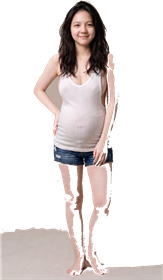
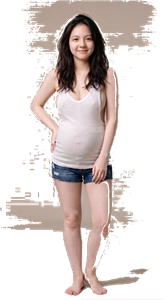
P11: poles posisi karakter di lantai rumah/kos, rapikan cutout Neil Aura, siapkan lazy loader Tahap B/C & lazy cache sw.js

diff --git a/js/adegan.js b/js/adegan.js
@@ -5,7 +5,25 @@
   var cv, cx, W = 360, H = 640, dpr = 1;
   var anim = { rolling: 0, pantulKedai: 0, pantulBarista: 0, kedip: 0, motor: [], tMotor: 0, angkat: 0, teks: [], cup: [] };
   var ruko = [];
-  var bgImgs = {}, charImgs = {}, charFullImgs = {};
+  var bgImgs = {}, charImgs = {}, charFullImgs = {}, kotaImgs = {}, temaImgs = {}, motorImgs = {}, mobilImgs = {};
+  function muatLazily(map, kunci, src) {
+    if (!kunci) return null;
+    if (map[kunci] === 'none') return null;
+    if (map[kunci]) return map[kunci].naturalWidth ? map[kunci] : null;
+    var im = new Image();
+    im.onerror = function () { map[kunci] = 'none'; };
+    im.src = src;
+    map[kunci] = im;
+    return null;
+  }
+  function gambarLatarGulir(im, yBawah, geser) {
+    if (!im || !im.naturalWidth) return false;
+    var dh = Math.max(yBawah, 240), dw = Math.max(W, dh * (im.naturalWidth / im.naturalHeight));
+    var off = ((geser || 0) % dw + dw) % dw;
+    cx.drawImage(im, -off, 0, dw, dh);
+    if (dw - off < W) cx.drawImage(im, dw - off, 0, dw, dh);
+    return true;
+  }
   function muatBg(kunci, src) {
     var im = new Image();
     im.onload = function () { bgImgs[kunci] = im; };
@@ -914,25 +932,26 @@
     } else {
       var ekspPemain = s.sakitPemain ? '🤒' : s.capekPemain ? '😓' : s.hbTinggi ? '❤' : ['😊', '☕', '✨'][Math.floor(t / 4000) % 3];
       var imP = imCharFull(s.namaPemain, s.gender || 'cewek');
-      if (!gambarKarakterPenuh(imP, 95, yLantai + 138, 132, t, { gerak: 5, bingkai: '#1f8a80', ikonEkspresi: ekspPemain, label: s.namaPemain || 'Kamu' })) {
+      if (!gambarKarakterPenuh(imP, 228, yLantai + 162, 160, t, { gerak: 4, bingkai: '#1f8a80', ikonEkspresi: ekspPemain, label: s.namaPemain || 'Kamu' })) {
         gambarKarakterRumah(132, yLantai + 102, s.gender || 'cewek', t, { baju: s.gender === 'cewek' ? '#7a3e54' : '#1f8a80', hamil: !!s.hamilPemain, label: s.namaPemain || 'Kamu' });
       }
       if (pas) {
         var ekspPas = pas.hamil ? '🤰' : s.hbTinggi ? '😘' : ['🥰', '😊', '💕'][Math.floor(t / 4500) % 3];
         var imPas = imCharFull(pas.nama, pas.gender, pas.usia, pas.peran);
-        if (!gambarKarakterPenuh(imPas, 185, yLantai + 140, 128, t + 400, { gerak: 4, bingkai: '#e91e63', ikonEkspresi: ekspPas, label: pas.nama + (pas.hamil ? ' 🤰' : '') })) {
+        if (!gambarKarakterPenuh(imPas, 148, yLantai + 168, 154, t + 400, { gerak: 3, bingkai: '#e91e63', ikonEkspresi: ekspPas, label: pas.nama + (pas.hamil ? ' 🤰' : '') })) {
           gambarKarakterRumah(196, yLantai + 104, pas.gender, t + 400, { baju: pas.gender === 'cewek' ? '#d46a7e' : '#35608a', hamil: !!pas.hamil, label: pas.nama });
         }
       }
     }
-    /* anak-anak & ipar yang berada di rumah tampil penuh sesuai usia */
+    /* anak-anak & ipar yang berada di rumah tampil penuh sesuai usia di lantai depan */
+    var posAn = [[76, 174], [292, 174], [112, 196], [264, 196]];
     anakList.slice(0, 4).forEach(function (an, i) {
       var isIpar = an.peran === 'adik_ipar' || an.peran === 'kakak_ipar';
-      var tinggiAn = isIpar ? (an.usia < 20 ? 116 : 126) : (an.usia < 3 ? 68 : an.usia < 7 ? 84 : an.usia < 12 ? 98 : an.usia < 18 ? 116 : 126);
-      var ax = 262 + (i % 2) * 52 - Math.floor(i / 2) * 160, ay = yLantai + 142 + Math.floor(i / 2) * 34;
+      var tinggiAn = isIpar ? (an.usia < 20 ? 136 : 148) : (an.usia < 3 ? 78 : an.usia < 7 ? 96 : an.usia < 12 ? 114 : an.usia < 18 ? 136 : 148);
+      var ax = posAn[i][0], ay = yLantai + posAn[i][1];
       var imAn = imCharFull(an.nama, an.gender, an.usia, an.peran);
       var ekspAn = isIpar ? ['😉', '✨', '🌸'][Math.floor((t + i * 900) / 4200) % 3] : ['😄', '🌟', '🎵'][Math.floor((t + i * 700) / 3800) % 3];
-      if (!gambarKarakterPenuh(imAn, ax, ay, tinggiAn, t + 700 * (i + 1), { gerak: 4, bingkai: isIpar ? '#ff70a6' : '#f2a516', ikonEkspresi: ekspAn, label: an.nama + ' (' + an.usia + 't)' })) {
+      if (!gambarKarakterPenuh(imAn, ax, ay, tinggiAn, t + 700 * (i + 1), { gerak: 3, bingkai: isIpar ? '#ff70a6' : '#f2a516', ikonEkspresi: ekspAn, label: an.nama + ' (' + an.usia + 't)' })) {
         var sk = an.usia < 2 ? 0.52 : an.usia < 5 ? 0.64 : an.usia < 10 ? 0.76 : an.usia < 15 ? 0.88 : 0.96;
         gambarKarakterRumah(ax, ay, an.gender, t + 700 * (i + 1), { skala: sk, baju: an.gender === 'cewek' ? '#f2a516' : '#4fa55a', label: an.nama + ' (' + an.usia + 't)' });
       }
@@ -1181,6 +1200,15 @@
   /* motor menghadap kanan; dasar = permukaan jalan */
   function gambarMotorKu(x, y, id, o, t) {
     o = o || {};
+    var imM = muatLazily(motorImgs, id, 'img/motor-' + id + '.png');
+    if (imM) {
+      var th = 56, tw = th * (imM.naturalWidth / imM.naturalHeight);
+      cx.save(); cx.translate(x, y); if (o.kiri) cx.scale(-1, 1);
+      cx.fillStyle = 'rgba(0,0,0,.28)'; cx.beginPath(); cx.ellipse(0, 1, Math.max(26, tw * 0.42), 4.5, 0, 0, Math.PI * 2); cx.fill();
+      cx.drawImage(imM, -tw / 2, -th + 2, tw, th);
+      cx.restore();
+      return;
+    }
     var sport = !!SPORT[id], retro = !!RETRO[id], maxi = !!MAXI[id], ayago = !!AYAGO[id];
     var w = SPORT[id] || WARNA_MOTOR[id] || '#d9443a', putar = o.jalan ? t / 60 : 0;
     cx.save(); cx.translate(x, y); if (o.kiri) cx.scale(-1, 1);
@@ -1253,6 +1281,15 @@
   }
   var WARNA_MOBIL = { granmax: '#e8e4da', carry: '#e8e4da', hilux: '#d6d8da', l300: '#3e6fb0', calya: '#b8bcc0', agya: '#d9443a', avanza: '#e8e4da', rush: '#2b2f36', veloz: '#8a2a2a', zenix: '#d8d4cc', fortuner: '#2b2f36', camry: '#3a3f46', gr86: '#d9443a', alphard: '#f3f1ea', landcruiser: '#2b2f36' };
   function gambarMobil(x, y, bentuk, id, kiri, roda) {
+    var imC = muatLazily(mobilImgs, id, 'img/mobil-' + id + '.png');
+    if (imC) {
+      var th = 54, tw = th * (imC.naturalWidth / imC.naturalHeight);
+      cx.save(); cx.translate(x, y); if (kiri) cx.scale(-1, 1);
+      cx.fillStyle = 'rgba(0,0,0,.3)'; cx.beginPath(); cx.ellipse(0, 2, Math.max(46, tw * 0.44), 5.5, 0, 0, Math.PI * 2); cx.fill();
+      cx.drawImage(imC, -tw / 2, -th + 4, tw, th);
+      cx.restore();
+      return;
+    }
     var w = WARNA_MOBIL[id] || '#e8e4da', pt = roda ? roda / 60 : 0;
     cx.save(); cx.translate(x, y); if (kiri) cx.scale(-1, 1);
     if (id === 'hilux') {
@@ -1290,11 +1327,12 @@
   function gambarJalanRaya(s, t) {
     var m = s.menit % 1440, f = s.ojek, jalan = H * 0.62, dasarRuko = jalan - 60, lebar = W + 44, geser = (t * 0.06) % lebar;
     var gp = gelap(m);
-    {
+    var imKota = muatLazily(kotaImgs, s.kota, 'img/kota-' + s.kota + '.jpg');
+    if (!gambarLatarGulir(imKota, dasarRuko + 12, t * 0.06)) {
       gambarLangit(m, t);
       cx.save(); cx.translate(-geser, 0); gambarRuko(m, dasarRuko); cx.translate(lebar, 0); gambarRuko(m, dasarRuko); cx.restore();
-      if (gp > 0) { cx.fillStyle = 'rgba(10,18,45,' + (gp * 0.38).toFixed(3) + ')'; cx.fillRect(0, 0, W, dasarRuko); }
     }
+    if (gp > 0) { cx.fillStyle = 'rgba(10,18,45,' + (gp * 0.38).toFixed(3) + ')'; cx.fillRect(0, 0, W, dasarRuko); }
     kotak(0, dasarRuko, W, jalan - dasarRuko, 'rgba(185,178,166,.55)');
     var g2 = (t * 0.25) % 20; for (var x0 = -20; x0 < W + 20; x0 += 20) kotak(x0 - g2, jalan - 7, 10, 7, (Math.round((x0 + 20) / 20)) % 2 ? '#f3f1ea' : '#2b2b2b');
     kotak(0, jalan, W, H - jalan, s.hujan ? 'rgba(38,44,54,.72)' : 'rgba(68,72,78,.72)');
@@ -1365,6 +1403,8 @@
   }
   /* pemandangan umum per tema, bergeser mengikuti jarak tempuh */
   function latarTema(tema, dasar, geser, gp, m) {
+    var imTema = muatLazily(temaImgs, tema, 'img/tema-' + tema + '.jpg');
+    if (gambarLatarGulir(imTema, dasar + 8, geser * 0.35)) return;
     var lampu = gp > 0.4, off = geser;
     if (tema === 'gunung') { bukitLatar(dasar - 12, 110, '#6d8f8a', off * 0.2, 90, 1); bukitLatar(dasar - 4, 70, '#4f8a55', off * 0.45, 60, 3); for (var r = 0; r < 4; r++) { cx.fillStyle = 'rgba(90,160,80,' + (0.5 - r * 0.08) + ')'; cx.fillRect(0, dasar - 8 - r * 7, W, 3); } }
     else if (tema === 'danau') { bukitLatar(dasar - 18, 90, '#5d7f8a', off * 0.15, 110, 5); cx.fillStyle = 'rgba(90,170,205,.85)'; cx.fillRect(0, dasar - 18, W, 18); bukitLatar(dasar, 36, '#3f7a4a', off * 0.4, 70, 2); }
@@ -1556,17 +1596,20 @@
       }
       kotakKedai = { x: kX, y: kY - 12, w: kW, h: kH + 12, bx: kX + 20, by: kY + 28, bw: kW - 40, bh: 54 };
     } else {
-      gambarLangit(m, t);
-      gambarRuko(m, dasarRuko);
+      var imKotaS = muatLazily(kotaImgs, s.kota, 'img/kota-' + s.kota + '.jpg');
+      if (!gambarLatarGulir(imKotaS, dasarRuko + 12, 0)) {
+        gambarLangit(m, t);
+        gambarRuko(m, dasarRuko);
+      }
       if (gp > 0) { cx.fillStyle = 'rgba(10,18,45,' + (gp * 0.38).toFixed(3) + ')'; cx.fillRect(0, 0, W, dasarRuko); }
       gambarJalan(trotoar, jalan);
-      gambarTiang(dasarKedai, dasarRuko - 270);
+      if (!imKotaS) gambarTiang(dasarKedai, dasarRuko - 270);
       if (s.berhentiSewa) {
         /* mode driver: tidak ada kedai, hanya jalan raya dan pemain di tepi jalan */
         kotakKedai = { x: 160, y: dasarKedai - 140, w: 192, h: 140, bx: 180, by: dasarKedai - 110, bw: 152, bh: 54 }; kotakBarista = null;
         if (!s.ojek || s.ojek.status === 'standby') {
           var imStand = imCharFull(s.namaPemain, s.gender);
-          if (!gambarKarakterPenuh(imStand, 258, dasarKedai + 6, 118, t, { gerak: 4, bingkai: '#00aa13', ikonEkspresi: s.sakitPemain ? '🤒' : s.capekPemain ? '😓' : '🛵', label: s.namaPemain || 'Driver' })) {
+          if (!gambarKarakterPenuh(imStand, 242, dasarKedai + 8, 128, t, { gerak: 4, bingkai: '#00aa13', ikonEkspresi: s.sakitPemain ? '🤒' : s.capekPemain ? '😓' : '🛵', label: s.namaPemain || 'Driver' })) {
             gambarPotretAi(imPemain(s), 258, dasarKedai - 30, 24, t, { gerak: 5, zoom: 1.3, bingkai: '#00aa13', ekspresi: 'senang', ikonEkspresi: s.sakitPemain ? '🤒' : s.capekPemain ? '😓' : '🛵', label: s.namaPemain || 'Driver' });
           }
         }

diff --git a/js/main.js b/js/main.js
@@ -2911,7 +2911,7 @@
     }) : [];
     var hb = (main && S.diri) ? (S.diri.hb || 0) : 0;
     var capekP = !!(main && S.diri && (S.diri.stamina < 25));
-    ADEGAN.gambar(main ? { ramadan: KAL.apakahRamadan(S.hari) > 0, namaToko: S.namaToko || 'Kopi Kontainer', namaPemain: S.namaPemain || 'Kamu', gender: (S.profil && S.profil.gender) || 'cewek', berhentiSewa: !!(S.usaha && S.usaha.berhentiSewa), sakitPemain: !!S.diri.sakit, capekPemain: capekP, hbTinggi: hb >= 75, hamilPemain: !!(S.diri.hamil && S.diri.hamil.terdeteksi), keluargaRumah: kelDiRumah, hbAnim: S.hbRun ? { u: Math.min(1, 1 - S.hbRun.sisa / S.hbRun.total), varian: S.hbRun.varian, nama: S.hbRun.nama, gB: S.hbRun.gB } : null, posisi: S.diri.posisi, transit: S.transit ? { ke: S.transit.ke, u: 1 - S.transit.sisa / S.transit.total, km: S.transit.km, kend: S.transit.kend, mult: S.transit.mult } : null, ojek: OJEK.fase(S), travel: TRAVEL.fase(S), motorId: S.motor ? S.motor.id : null, mobil: S.mobil ? { id: S.mobil.id, bentuk: S.mobil.bentuk } : null, rumah: S.rumah.jenis === 'rumah' ? S.rumah.tipe : null,
+    ADEGAN.gambar(main ? { kota: S.kota, ramadan: KAL.apakahRamadan(S.hari) > 0, namaToko: S.namaToko || 'Kopi Kontainer', namaPemain: S.namaPemain || 'Kamu', gender: (S.profil && S.profil.gender) || 'cewek', berhentiSewa: !!(S.usaha && S.usaha.berhentiSewa), sakitPemain: !!S.diri.sakit, capekPemain: capekP, hbTinggi: hb >= 75, hamilPemain: !!(S.diri.hamil && S.diri.hamil.terdeteksi), keluargaRumah: kelDiRumah, hbAnim: S.hbRun ? { u: Math.min(1, 1 - S.hbRun.sisa / S.hbRun.total), varian: S.hbRun.varian, nama: S.hbRun.nama, gB: S.hbRun.gB } : null, posisi: S.diri.posisi, transit: S.transit ? { ke: S.transit.ke, u: 1 - S.transit.sisa / S.transit.total, km: S.transit.km, kend: S.transit.kend, mult: S.transit.mult } : null, ojek: OJEK.fase(S), travel: TRAVEL.fase(S), motorId: S.motor ? S.motor.id : null, mobil: S.mobil ? { id: S.mobil.id, bentuk: S.mobil.bentuk } : null, rumah: S.rumah.jenis === 'rumah' ? S.rumah.tipe : null,
       pindah: pindahAnim ? { u: (t - pindahAnim.mulai) / 3800, pikap: pindahAnim.pikap, warna: pindahAnim.warna } : null, barang: S.rumah.barang, tidur: !!S.tidurAnim, acNyala: !S.rumah.padam && DIRI.adaAc(S), menit: S.menit, buka: S.fase === 'buka' && !S.tutupSementara, kecepatan: S.kec, jalan: !lembar && S.kec > 0, pembeli: JUAL.semua(), dMenit: dMenit, ruangBawah: ruang, motorParkir: S.motor && ANTAR.waktu(S) >= (S.motorSibukSampai || 0) ? S.motor.id : null, staf: stafHadir.length, stafGender: stafHadir.map(function (k) { return k.gender || 'cewek'; }), anakBantu: anakDiKedai, hujan: DUNIA.hujanSekarang(S) ? (S.dunia.cuaca.banjir ? 2 : 1) : 0, kotor: S.dunia.kotor, tier: S.usaha.tier, kayu: USAHA.punya(S, 'kursiKayu'), padam: !USAHA.listrikNyala(S) }
       : { latarAwal: true, namaToko: 'The Driver', menit: 1050, buka: false, kecepatan: 1, jalan: true, pembeli: [], dMenit: 0 }, t);
     requestAnimationFrame(putar);

diff --git a/sw.js b/sw.js
@@ -1,6 +1,7 @@
 /* sw.js — supaya game tetap jalan tanpa internet. Naikkan VERSI setiap rilis. */
-var VERSI = 'kk-24-9';
-var BERKAS = ['./', 'index.html', 'css/game.css', 'js/data/nyata.js', 'js/data/menu.js', 'js/data/rute.js', 'js/kalender.js', 'js/simpan.js', 'js/uang.js', 'js/diri.js', 'js/teman.js', 'js/stok.js', 'js/motor.js', 'js/mobil.js', 'js/ojek.js', 'js/travel.js', 'js/properti.js', 'js/antar.js', 'js/karyawan.js', 'js/dunia.js', 'js/usaha.js', 'js/jualan.js', 'js/adegan.js', 'js/suara.js', 'js/main.js', 'manifest.webmanifest', 'img/ikon-192.png', 'img/ikon-512.png', 'img/bg-kos.jpg', 'img/bg-rumah-subsidi.jpg', 'img/bg-rumah-komersial.jpg', 'img/bg-rumah-mewah.jpg', 'img/char-neil-aura.jpg', 'img/char-neil-aura-full.png', 'img/char-ferry.jpg', 'img/char-ferry-full.png', 'img/char-cewek-1.jpg', 'img/char-cewek-1-full.png', 'img/char-cewek-2.jpg', 'img/char-cewek-2-full.png', 'img/char-cewek-3.jpg', 'img/char-cewek-3-full.png', 'img/char-cowok-1.jpg', 'img/char-cowok-1-full.png', 'img/char-cowok-2.jpg', 'img/char-cowok-2-full.png', 'img/char-remaja-cewek.jpg', 'img/char-remaja-cewek-full.png', 'img/char-remaja-cowok.jpg', 'img/char-remaja-cowok-full.png', 'img/char-anak-cewek.jpg', 'img/char-anak-cewek-full.png', 'img/char-anak-cowok.jpg', 'img/char-anak-cowok-full.png'];
+var VERSI = 'kk-24-10';
+/* aset inti di-cache saat install; gambar (img/char-*, bg-*, kota-*, motor-*, mobil-*) di-cache otomatis saat dibuka (lazy cache) */
+var BERKAS = ['./', 'index.html', 'css/game.css', 'js/data/nyata.js', 'js/data/menu.js', 'js/data/rute.js', 'js/kalender.js', 'js/simpan.js', 'js/uang.js', 'js/diri.js', 'js/teman.js', 'js/stok.js', 'js/motor.js', 'js/mobil.js', 'js/ojek.js', 'js/travel.js', 'js/properti.js', 'js/antar.js', 'js/karyawan.js', 'js/dunia.js', 'js/usaha.js', 'js/jualan.js', 'js/adegan.js', 'js/suara.js', 'js/main.js', 'manifest.webmanifest', 'img/ikon-192.png', 'img/ikon-512.png'];
 self.addEventListener('install', function (e) { e.waitUntil(caches.open(VERSI).then(function (c) { return c.addAll(BERKAS); })); self.skipWaiting(); });
 self.addEventListener('activate', function (e) {
   e.waitUntil(caches.keys().then(function (k) { return Promise.all(k.filter(function (x) { return x !== VERSI; }).map(function (x) { return caches.delete(x); })); }));

diff --git a/README.md b/README.md
@@ -56,3 +56,4 @@ P7. Waktu mangkal 1x (8x hanya saat bawa penumpang/antar/jalan/tidur), HB & me t
 P8. Hiburan HP mempercepat waktu (8x) sampai ada penumpang; baterai HP dikalibrasi (idle ±1,2%/jam, ojol standby ±4,5%, Maps+trip ±8% untuk 5000 mAh, YouTube ±7%/jam); BBM 15% (motor) / 20% (mobil) lebih boros dari angka pabrik (kondisi kota nyata) ✔
 P9. Karakter manusia asli & foto AI: foto asli Neil Aura, karakter AI Ferry Ananda serta karakter lain sesuai nama, usia, dan gender; tampil full-body proporsional di rumah/kos dan potret karakter di adegan HB ✔
 P10. Tahap A realistis: 4 interior rumah & kos nyata (kos, subsidi 36, tipe 45, mewah 200), pencahayaan waktu nyata (subuh/pagi/senja/malam, lampu ruangan & sorot lampu kendaraan), dan hujan realistis 3 lapis + kilau aspal basah + petir ✔
+P11. Poles posisi & tinggi karakter di lantai rumah/kos (tidak menimpa kasur), rapikan cutout Neil Aura, siapkan lazy loader Tahap B/C (kota, tema travel, motor, mobil) & lazy cache sw.js ✔
